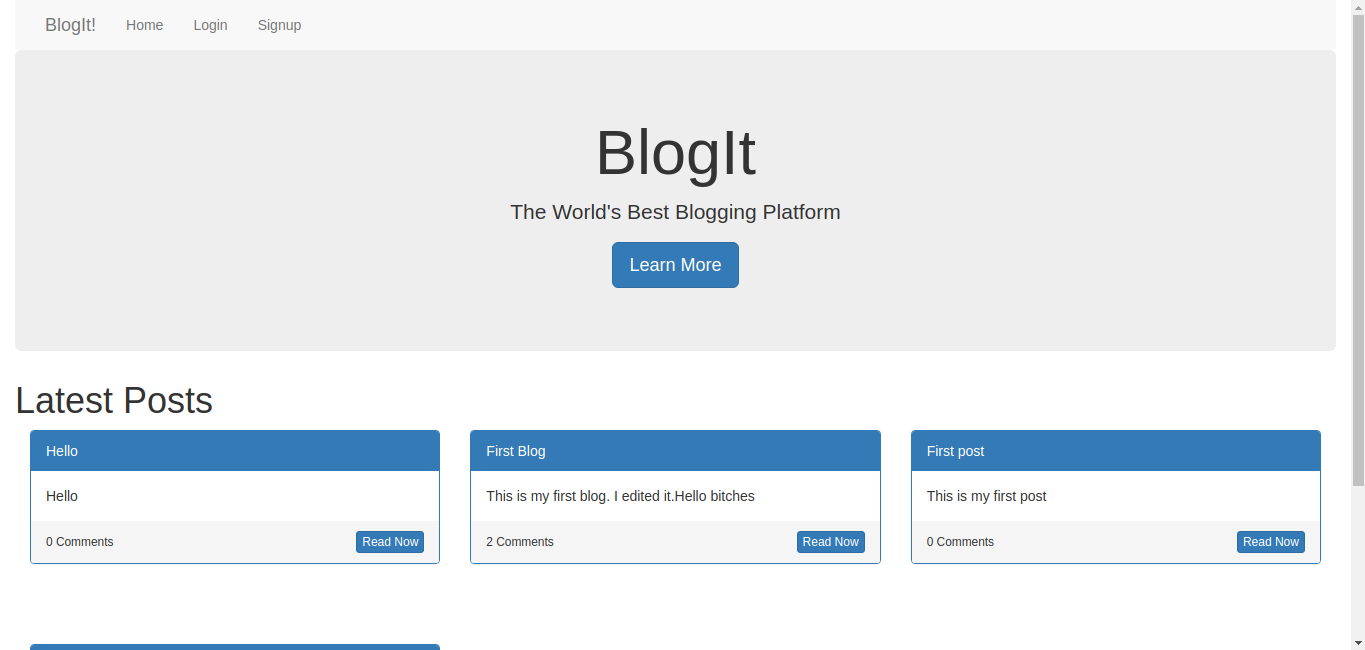
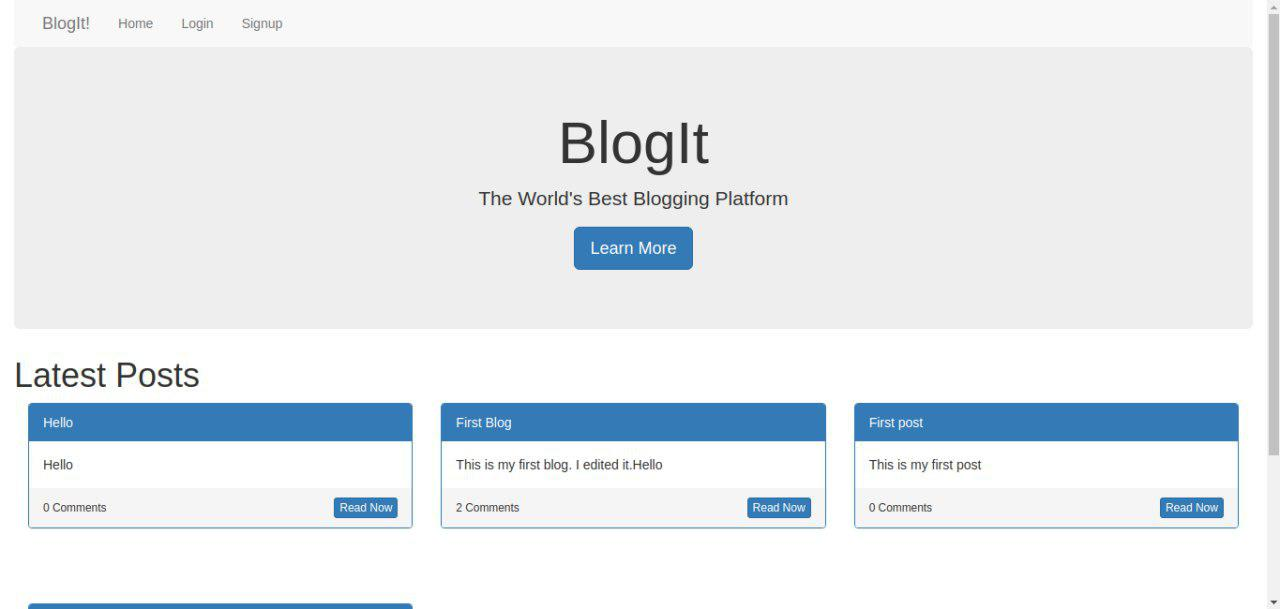
styles.css: Added grid layout for Proijects page

diff --git a/projects/index.html b/projects/index.html
@@ -2,38 +2,35 @@
 layout: default
 title: Projects
 ---
-<head>
-
-    <script type="text/javascript">
-        $(document).ready(function() {
-            $('#slider1').bxSlider({
-                auto: true,
-                pager: true,
-                slideWidth: 800,
-                captions: true
-            });
-        });
-    </script>
-</head>
-
 <body>
     <div class="wrapper">
-
         <section>
-            <h1>Project Portfolio</h1>
-            <h2><a href="/blogs" target="_blank">Passions</a></h2>
-
-            <ul id="slider1">
-              <li><img src="/img/passions/pic1.png" title="Home Page" /></li>
-              <li><img src="/img/passions/pic2.png" title="About" /></li>
-            </ul>
-
-            <p> <a href="https://jekyllrb.com" target="_blank">Jekyll</a> is a simple, blog-aware, static site generator, running on Ruby. Jekyll harnesses the power of markdown, which makes writing HTML much easier and much more efficient. You can look it up on Google to look around at some very cool websites made using Jekyll.</p>
-
-            <p>Passions was a long thought-of project of mine. I meant to make a blogging platform, where I could post articles, stories, etc for the world to see. Since Jekyll is so easy to understand and manipulate, it took me just a couple of days to get my blog up and running. Being hosted on Github Pages, which also uses Jekyll, and since Github is also its creator, this blog hosts my stories, travelogues, articles I like from around the web and more. Feel free to look around.</p>
-
-            <div align="right"><a href="/projects/tabcalc.html" position="right">Next >></a></div>
+            <div class="overlay">
+                <!--div><p class="overlay-txt">Blog It!</p></div>
+                <div><p class="overlay-txt">Passions</p></div>
+                <div><p class="overlay-txt">Breakout</p></div>
+                <div><p class="overlay-txt">Gaaner Opare</p></div>
+                <div><p class="overlay-txt">Tabcalc</p></div>
+                <div><p class="overlay-txt">AIRYL</p></div-->
+                <div>
+                    <a href="blogit.html"><img src="../img/overlay/blogit.png"></a>
+                </div>
+                <div>
+                    <a href="passions.html"><img src="../img/overlay/passions.png"></a>
+                </div>
+                <div>
+                    <a href="breakout.html"><img src="../img/overlay/breakout.png"></a>
+                </div>
+                <div>
+                    <a href="tabcalc.html"><img src="../img/overlay/tabcalc.png"></a>
+                </div>
+                <div>
+                    <a href="music.html"><img src="../img/overlay/music.png"></a>
+                </div>
+                <div>
+                    <a href="airyl.html"><img src="../img/overlay/airyl.png"></a>
+                </div>
+            </div>
         </section>
-
     </div>
 </body>

diff --git a/_layouts/default.html b/_layouts/default.html
@@ -17,30 +17,22 @@
 <body>
     <div class="wrapper">
         <header>
-        <nav role="navigation">
-            <ul>
-                <li>
-                    <div class="dropdown">
-                        <a href="/projects">Projects</a>
-                        <div class="dropdown-content">
-                            <a href="/projects/index.html">Passions</a>
-                            <a href="/projects/tabcalc.html">Tabcalc</a>
-                            <a href="/projects/airyl.html">AIRYL</a>
-                            <a href="/projects/breakout.html">Breakout</a>
-                            <a href="/projects/blogit.html">BlogIt!</a>
-                            <a href="/projects/music.html">Gaaner Opare</a>
+            <nav role="navigation">
+                <ul>
+                    <li>
+                        <div class="dropdown">
+                            <a href="/projects/index.html">Projects</a>
                         </div>
-                    </div>
-                </li>
-                <li><a href="/blogs" target="_blank"> Blog </a></li>
-                <li><a href="/about/"> About </a></li>
-                <li><a href="/contact/"> Contact </a></li>
-            </ul>
-        </nav>
-        <a href="/"><img src="/img/me.jpg"></a>
+                    </li>
+                    <li><a href="/blogs" target="_blank"> Blog </a></li>
+                    <li><a href="/about/"> About </a></li>
+                    <li><a href="/contact/"> Contact </a></li>
+                </ul>
+            </nav>
+            <a href="/"><img src="/img/me.jpg"></a>
         </header>
 
-         {{ content }} 
+        {{ content }} 
 
         <footer>
                 <p>
@@ -51,9 +43,8 @@
     </div>
 
     <body>
-    
-    <script src="/js/scale.fix.js"></script>
-  </body>
+        <script src="/js/scale.fix.js"></script>
+    </body>
 
 </body>
 </html>

diff --git a/projects/passions.html b/projects/passions.html
@@ -1,0 +1,39 @@
+---
+layout: default
+title: Projects
+---
+<head>
+
+    <script type="text/javascript">
+        $(document).ready(function() {
+            $('#slider1').bxSlider({
+                auto: true,
+                pager: true,
+                slideWidth: 800,
+                captions: true
+            });
+        });
+    </script>
+</head>
+
+<body>
+    <div class="wrapper">
+
+        <section>
+            <h1>Project Portfolio</h1>
+            <h2><a href="/blogs" target="_blank">Passions</a></h2>
+
+            <ul id="slider1">
+              <li><img src="/img/passions/pic1.png" title="Home Page" /></li>
+              <li><img src="/img/passions/pic2.png" title="About" /></li>
+            </ul>
+
+            <p> <a href="https://jekyllrb.com" target="_blank">Jekyll</a> is a simple, blog-aware, static site generator, running on Ruby. Jekyll harnesses the power of markdown, which makes writing HTML much easier and much more efficient. You can look it up on Google to look around at some very cool websites made using Jekyll.</p>
+
+            <p>Passions was a long thought-of project of mine. I meant to make a blogging platform, where I could post articles, stories, etc for the world to see. Since Jekyll is so easy to understand and manipulate, it took me just a couple of days to get my blog up and running. Being hosted on Github Pages, which also uses Jekyll, and since Github is also its creator, this blog hosts my stories, travelogues, articles I like from around the web and more. Feel free to look around.</p>
+
+            <div align="right"><a href="/projects/tabcalc.html" position="right">Next >></a></div>
+        </section>
+
+    </div>
+</body>

diff --git a/css/style.css b/css/style.css
@@ -13,8 +13,8 @@ body {
 }
 
 .wrapper {
-  width:950px;
-  margin:0 auto;
+  width:1250px;
+  margin:0;
   *zoom: 1;
 }
 .wrapper:before,
@@ -29,7 +29,6 @@ body {
 img {
   max-width:100%;
 }
-
 
 /* Typography */
 
@@ -98,7 +97,7 @@ strong {
 }
 
 section {
-  width:600px;
+  width:900px;
   float:right;
   padding-bottom:50px;
   min-height: 400px;
@@ -461,7 +460,7 @@ img.pull-left {
 @media print, screen and (max-width: 1050px) {
   
   div.wrapper {
-    width:600px;
+    width:800px;
   }
   
   header, section, footer {
@@ -732,4 +731,28 @@ form {
     float: none;
     width: 100%;
   }
+}
+
+div.overlay {
+  display: grid;
+  grid-template-columns: repeat(auto-fit, minmax(300px, 1fr));
+  grid-template-rows: repeat(2, 250px);
+  text-align: center;
+}
+
+.overlay div {
+  padding: 5px;
+}
+
+.overlay img:hover {
+  border-width: 2px;
+  border-color: #283655;
+  border-style: solid;
+}
+
+div.overlay img {
+  height: fill;
+}
+div.overlay p {
+  padding-top: 100px;
 }

diff --git a/projects/music.html b/projects/music.html
@@ -24,8 +24,8 @@ title: Projects
             <h2>Gaaner Opare</h2>
 
             <ul id="slider1">
-              <li><img src="/img/music/Music2.jpg" title="Music Archive" /></li>
-              <li><img src="/img/music/Music2-1.jpg" title="Credits" /></li>
+              <li><img src="/img/music/Music2-1.jpg" title="Music Archive" /></li>
+              <li><img src="/img/music/Music2-2.jpg" title="Credits" /></li>
             </ul>
 
             <p> "Gaaner Opare" was a Visual Basic project in my 3rd semester of college. We were asked to create an application using VB which would maintain records of various music records available in an imaginary music store.</p>

diff --git a/projects/breakout.html b/projects/breakout.html
@@ -9,7 +9,7 @@ title: Projects
             $('#slider1').bxSlider({
                 auto: true,
                 pager: true,
-                slideWidth: 800,
+                slideWidth: 600,
                 captions: true
             });
         });
